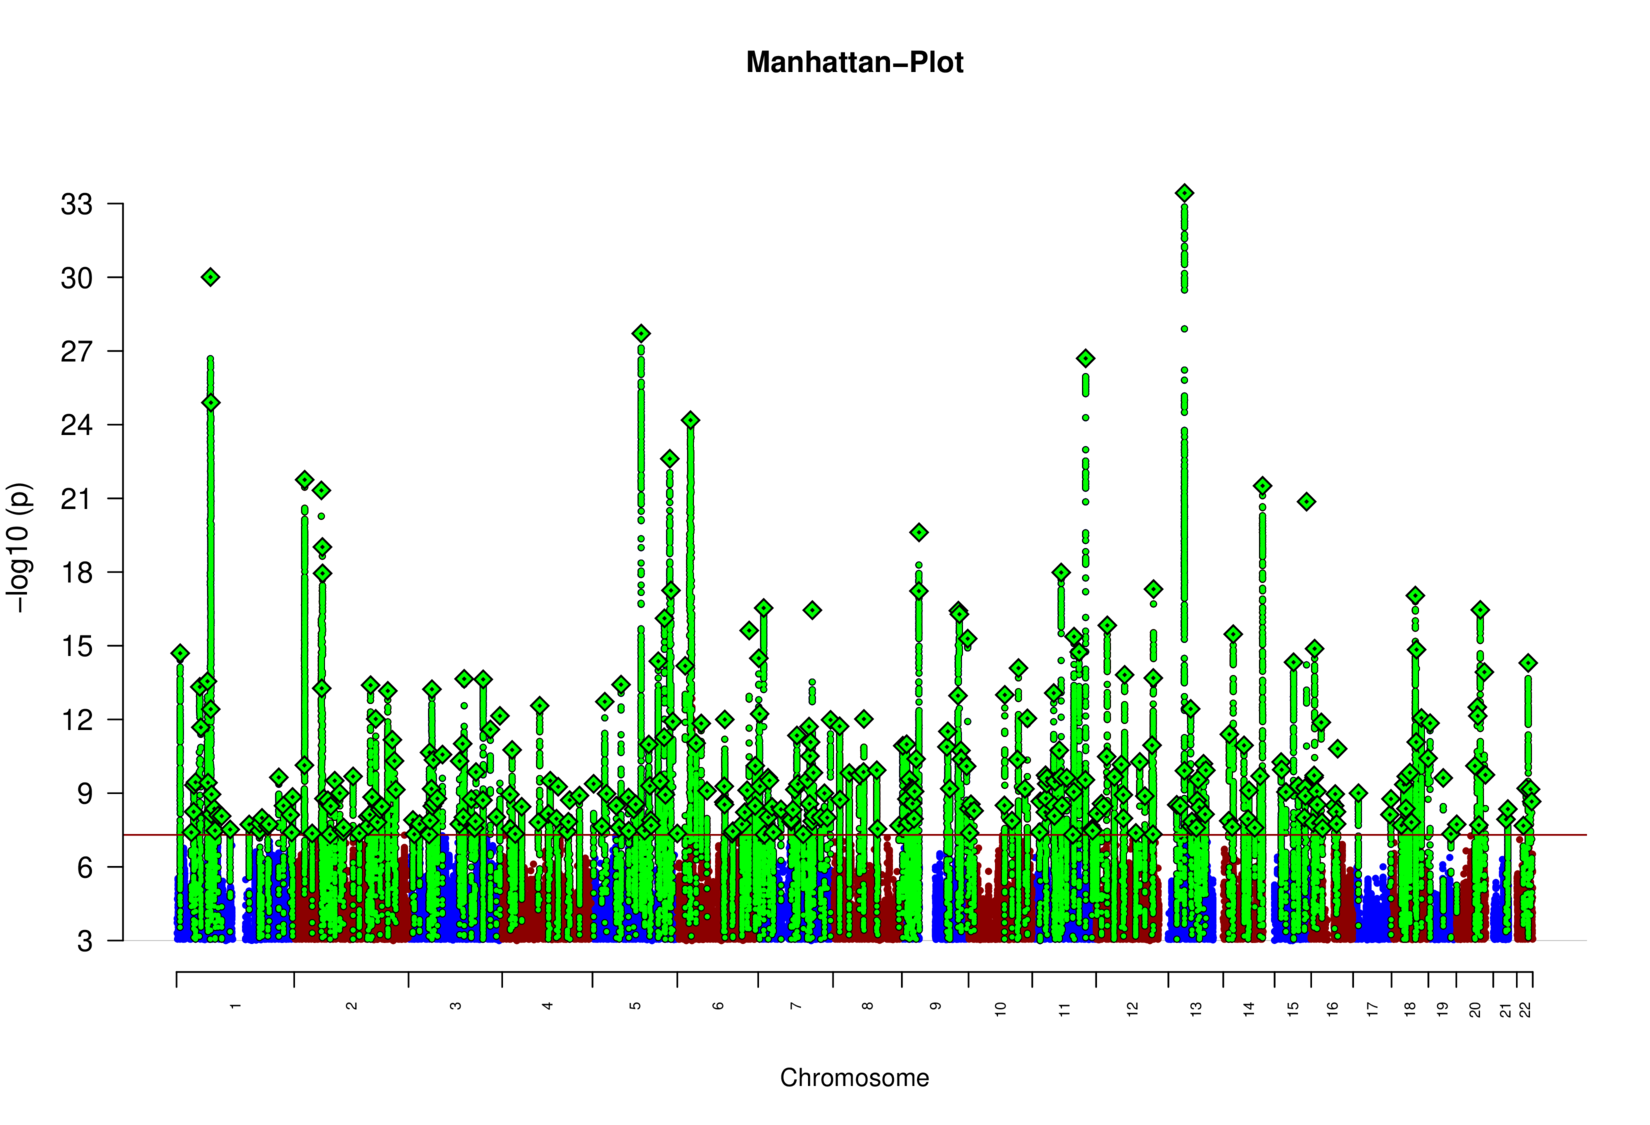
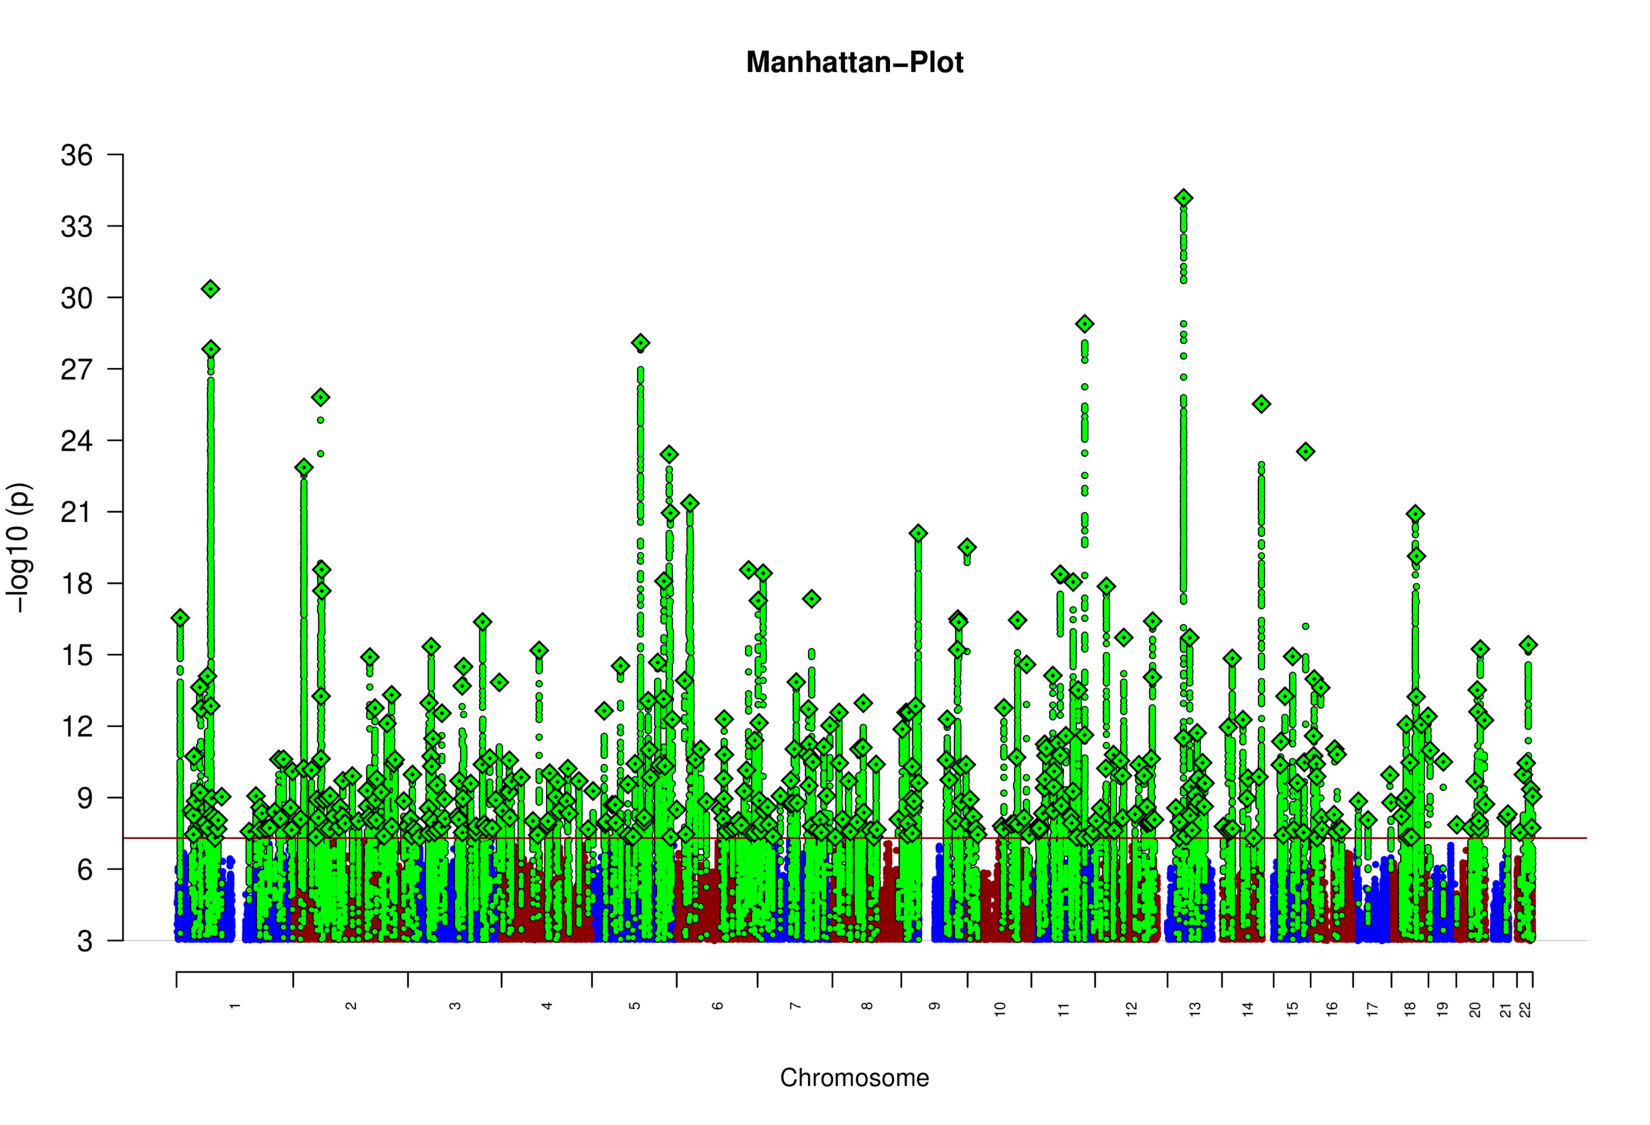
Meta: Add AGDS

diff --git a/README.md b/README.md
@@ -2,7 +2,7 @@
 
 Working toward the next meta-analysis ("MDD3") by the Major Depressive Disorder Working Group of the Psychiatric Genomics Consortium.
 
-**Current version**: v3.29.13 [EUR]
+**Current version**: v3.29.16 [EUR]
 
 ![MDD Manhattan plot](docs/figures/manhattan.nog2.eur.png)
 

diff --git a/docs/updates.md b/docs/updates.md
@@ -1,5 +1,9 @@
 # Project updates
 
+# 20 Nov 2020
+
+- **v.3.29.16** Add AGDS. _[EUR]_
+
 # 19 Nov 2020
 
 - **v3.29.15** Add PREFECT, STAGE. Update iPSYCH, UKBB _[EUR]_
